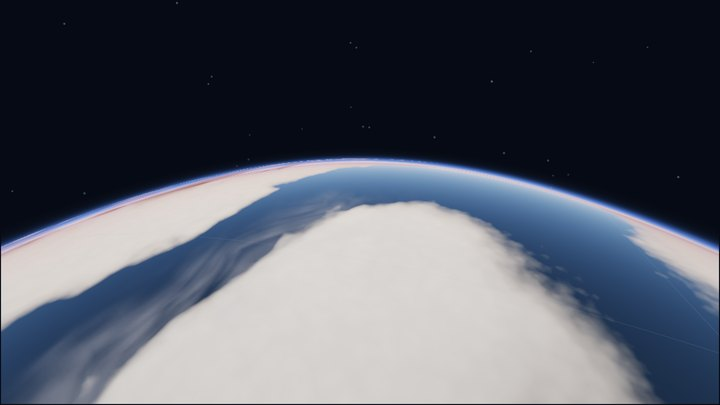
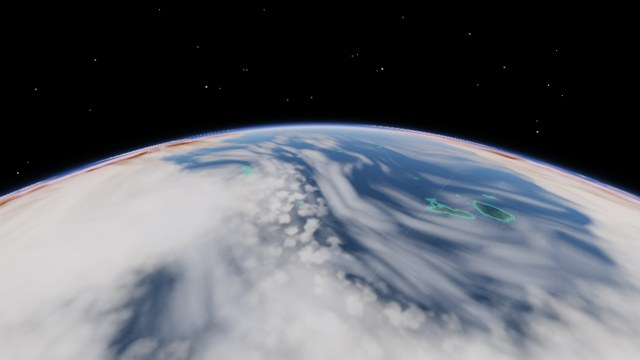
README: runnable snippets with what they draw; lean into the physics
- The two code snippets are complete scenes and identical to the new
  examples/earth.py and examples/astronaut.py; each is shown with a render
  of exactly that code.
- New sections explain why the sunset is red (Rayleigh 1/lambda^4,
  Beer-Lambert along the long low path, refraction, clouds lit after
  sunset, GGX glint) and how a pixel is made (ray casting, ray marching the
  air and the clouds, the surface, eclipse light from orbit), with numbers
  from the shaders.
- Dropped the verification section; images in docs/images.

Claude-Session: https://claude.ai/code/session_018JwqgkYaymFMMs9yP5ZLFK

diff --git a/orbitgfx/examples/astronaut.py b/orbitgfx/examples/astronaut.py
@@ -1,0 +1,38 @@
+import math
+import numpy as np
+import scene
+from orbitgfx import GlobeView, Camera, cached_earth_image, pil_texture
+from orbitgfx.astro import gmst, julian_date, sun_dir
+from orbitgfx.coastlines import coastlines_xyz
+
+R = 6378.137 + 420.0                                  # km: an ISS-like orbit
+N = math.sqrt(398600.4418 / R ** 3)                   # mean motion, rad/s
+INC = math.radians(51.6)
+
+
+def orbit(t):
+    """Position (km) and velocity (km/s) on a circular orbit, ECI."""
+    u = N * t
+    p = R * np.array((math.cos(u), math.sin(u) * math.cos(INC), math.sin(u) * math.sin(INC)))
+    v = N * R * np.array((-math.sin(u), math.cos(u) * math.cos(INC), math.cos(u) * math.sin(INC)))
+    return p, v
+
+
+class Astronaut(scene.Scene):
+    def setup(self):
+        texture = pil_texture(cached_earth_image(coastlines_xyz(6378.137)))
+        self.globe = GlobeView(self, texture, quality='HIGH', inset=0.0)
+        self.globe.layout((0, 0, self.size.w, self.size.h))
+        self.camera = Camera()
+        self.jd0 = julian_date()
+
+    def update(self):
+        t = self.t * 10                               # 10x real time
+        p, v = orbit(t)
+        jd = self.jd0 + t / 86400
+        self.camera.set_astronaut(p, v, down=0.3)     # ride behind it, looking down
+        self.globe.update(self.camera, sun_dir(jd), gmst(jd), sat=p, vel=v,
+                          cloud_hours=t / 3600)
+
+
+scene.run(Astronaut())

diff --git a/orbitgfx/examples/earth.py b/orbitgfx/examples/earth.py
@@ -1,0 +1,21 @@
+import scene
+from orbitgfx import GlobeView, Camera, cached_earth_image, pil_texture
+from orbitgfx.astro import gmst, julian_date, sun_dir
+from orbitgfx.coastlines import coastlines_xyz
+
+
+class Earth(scene.Scene):
+    def setup(self):
+        texture = pil_texture(cached_earth_image(coastlines_xyz(6378.137)))
+        self.globe = GlobeView(self, texture, quality='HIGH')
+        self.globe.layout((0, 0, self.size.w, self.size.h))
+        self.camera = Camera(az=-2.0, el=0.45)
+        self.jd0 = julian_date()                      # now
+
+    def update(self):
+        hours = self.t * 600 / 3600                   # 600x time lapse
+        jd = self.jd0 + hours / 24
+        self.globe.update(self.camera, sun_dir(jd), gmst(jd), cloud_hours=hours)
+
+
+scene.run(Earth())

diff --git a/README.md b/README.md
@@ -1,115 +1,202 @@
 # orbitgfx
 
-**A ray-traced Earth for your iPhone.** orbitgfx renders a physically based planet
-— atmosphere, volumetric clouds from a simulated weather film, NASA imagery, city
-lights, aurora, eclipses and refraction — in GLSL shaders on Pythonista's `scene`
-module, plus a full mission-control demo that flies a spacecraft over it.
+**A ray-traced Earth for Pythonista.** Nothing here is painted on. Every pixel casts a
+ray into a physical model of the planet: it is intersected with the Earth, the air,
+the clouds and the orbit, then marched through the atmosphere and the cloud layer,
+adding up the sunlight that air molecules, aerosols and water droplets scatter toward
+the camera. Sunsets are red because the light really did cross more air.
 
 <p align="center">
   <img src="docs/images/mission_control.jpg" width="300" alt="Mission control on an iPhone: ray-traced Earth with clouds, city lights and aurora, orbit ring, telemetry and ground track">
   &nbsp;
   <img src="docs/images/aurora.jpg" width="300" alt="Night side from a perspective camera: aurora oval over the pole, city lights, the terminator lit on the right">
 </p>
-<p align="center"><sub>On an iPhone 16 Pro Max in Pythonista: <code>examples/mission_control.py</code> and the aurora over the night side.</sub></p>
+<p align="center"><sub>On an iPhone 16 Pro Max: <code>examples/mission_control.py</code>, and the aurora over the night side.</sub></p>
 
-## From orbit
+## A planet in 20 lines
 
-The astronaut camera rides just behind the spacecraft and looks ahead at the horizon.
+```python
+import scene
+from orbitgfx import GlobeView, Camera, cached_earth_image, pil_texture
+from orbitgfx.astro import gmst, julian_date, sun_dir
+from orbitgfx.coastlines import coastlines_xyz
 
+
+class Earth(scene.Scene):
+    def setup(self):
+        texture = pil_texture(cached_earth_image(coastlines_xyz(6378.137)))
+        self.globe = GlobeView(self, texture, quality='HIGH')
+        self.globe.layout((0, 0, self.size.w, self.size.h))
+        self.camera = Camera(az=-2.0, el=0.45)
+        self.jd0 = julian_date()                      # now
+
+    def update(self):
+        hours = self.t * 600 / 3600                   # 600x time lapse
+        jd = self.jd0 + hours / 24
+        self.globe.update(self.camera, sun_dir(jd), gmst(jd), cloud_hours=hours)
+
+
+scene.run(Earth())
+```
+
+<p align="center">
+  <img src="docs/images/earth.jpg" width="420" alt="The Earth from the snippet: Africa, Europe and Asia, real clouds, snow on the Himalaya, city lights on the night side and the aurora at the pole">
+</p>
+<p align="center"><sub>What it draws, here for 17 Oct 2026 10:00 UTC: the Sun where it really is
+(<code>sun_dir</code>), the Earth turned by sidereal time (<code>gmst</code>), and clouds from
+the weather film for that hour. <code>examples/earth.py</code>.</sub></p>
+
+## Riding along
+
+```python
+import math
+import numpy as np
+import scene
+from orbitgfx import GlobeView, Camera, cached_earth_image, pil_texture
+from orbitgfx.astro import gmst, julian_date, sun_dir
+from orbitgfx.coastlines import coastlines_xyz
+
+R = 6378.137 + 420.0                                  # km: an ISS-like orbit
+N = math.sqrt(398600.4418 / R ** 3)                   # mean motion, rad/s
+INC = math.radians(51.6)
+
+
+def orbit(t):
+    """Position (km) and velocity (km/s) on a circular orbit, ECI."""
+    u = N * t
+    p = R * np.array((math.cos(u), math.sin(u) * math.cos(INC), math.sin(u) * math.sin(INC)))
+    v = N * R * np.array((-math.sin(u), math.cos(u) * math.cos(INC), math.cos(u) * math.sin(INC)))
+    return p, v
+
+
+class Astronaut(scene.Scene):
+    def setup(self):
+        texture = pil_texture(cached_earth_image(coastlines_xyz(6378.137)))
+        self.globe = GlobeView(self, texture, quality='HIGH', inset=0.0)
+        self.globe.layout((0, 0, self.size.w, self.size.h))
+        self.camera = Camera()
+        self.jd0 = julian_date()
+
+    def update(self):
+        t = self.t * 10                               # 10x real time
+        p, v = orbit(t)
+        jd = self.jd0 + t / 86400
+        self.camera.set_astronaut(p, v, down=0.3)     # ride behind it, looking down
+        self.globe.update(self.camera, sun_dir(jd), gmst(jd), sat=p, vel=v,
+                          cloud_hours=t / 3600)
+
+
+scene.run(Astronaut())
+```
+
+<p align="center">
+  <img src="docs/images/astronaut.jpg" width="820" alt="Night pass from 420 km: city lights along a coast, the red airglow layer and a thin green airglow line on the limb">
+</p>
 <table>
   <tr>
-    <td><img src="docs/images/astro_night.jpg" alt="Night pass: city lights under a red airglow band on the limb"></td>
-    <td><img src="docs/images/astro_glint.jpg" alt="Sun glint on the sea near the terminator"></td>
-  </tr>
-  <tr>
-    <td><img src="docs/images/astro_desert.jpg" alt="Desert and snow-capped ranges under a blue limb"></td>
-    <td><img src="docs/images/astro_clouds.jpg" alt="A cloud band curling over the ocean, backlit"></td>
+    <td><img src="docs/images/astro_dawn.jpg" alt="Dawn: the sunrise glow along the limb, land still in twilight"></td>
+    <td><img src="docs/images/astro_glint.jpg" alt="A cloud field and the sun's reflection on the sea"></td>
+    <td><img src="docs/images/astro_clouds.jpg" alt="Cumulus and banded cloud over the ocean"></td>
   </tr>
 </table>
-<p align="center"><sub>Night pass with airglow · sun glint at the terminator · desert under the limb · a cloud band, backlit. Desktop sandbox renders of the same shaders (HIGH preset, camera tilted further down than the default).</sub></p>
+<p align="center"><sub>Frames from <code>examples/astronaut.py</code> along one orbit. At night the
+limb glows with airglow: oxygen emitting at 557.7 nm (the thin green line, ~95 km up)
+and at 630 nm (the broad red band above it). At dawn the first light reaches you through
+the limb, reddened. Desktop renders of the same shaders.</sub></p>
 
-## From the ground
+## Why the sunset is red
 
-`examples/sunset.py` stands on a hill and watches the sun set under whatever the weather
-film has overhead. Each site shows a different kind of sky.
+<p align="center">
+  <img src="docs/images/sunset_sequence.jpg" width="820" alt="A sunset in nine frames over the sea: the sun reddens, flattens and sets, its glint following it down, the clouds staying lit">
+</p>
+
+Nobody chose these colours. `examples/sunset.py` stands 400 m above the sea and the
+shader works out, for every pixel, how much sunlight reaches each point of air along
+the view ray and how much of it is scattered toward you:
+
+- **Rayleigh scattering** by air molecules goes as 1/λ⁴, so the shader's blue
+  coefficient is 5.7 times its red one. Looking straight up you see the blue that was
+  scattered out of the beam.
+- **The low sun's light crosses far more air.** Integrating Beer–Lambert extinction
+  along a horizontal ray from the ground through the model atmosphere keeps 11% of the
+  red, 1% of the green and 0.005% of the blue. What reaches you is red, and the sun's
+  own disc turns orange, then red.
+- **Refraction** bends that light around the curve of the Earth: the sun is seen about
+  half a degree above where it really is (Saemundsson's formula), and squashed, because
+  its lower edge is lifted more than its top.
+- **The clouds keep their light after the ground loses it.** A cloud top 10 km up still
+  sees the sun after it has set for you; its light has grazed the dense lower air, so it
+  turns orange, then pink, then grey.
+- **The glint** on the sea is microfacet reflection (GGX) of that same reddened sun.
 
 <p align="center">
   <img src="docs/images/sunset_sites.jpg" width="820" alt="Four sunsets: open-cell stratocumulus off Chile, thunderstorms over the Bismarck Sea, frontal overcast over the North Pacific, high cirrus over the Amazon">
 </p>
-<p align="center">
-  <img src="docs/images/sunset_sequence.jpg" width="820" alt="A sunset in nine frames: the sun reddens and sets, its reflection on the sea following it down">
-</p>
-<p align="center"><sub>Four sites, then one sunset in nine frames: the disc reddens and sinks, its glint on the sea goes with it, and the clouds keep their light after the sun is gone.</sub></p>
+<p align="center"><sub>Four places, four skies, on an iPhone. The clouds are not drawn for the
+scene: they are whatever the weather film has over that spot at that hour.</sub></p>
 
-## What's in it
+## How a pixel is made
 
-- **Ray-traced globe:** one primary ray per pixel against the planet, atmosphere,
-  cloud shell and orbit, in orthographic or perspective views.
-- **Physical atmosphere:** Rayleigh, Mie and ozone single scattering with a baked
-  transmittance table, real scale heights.
-- **Weather you can watch:** a 4-day global weather film made offline by a two-layer
-  quasi-geostrophic model, drawn as volumetric clouds that move, light and shadow.
-- **Real imagery:** NASA Blue Marble land and Black Marble city lights, relief and
-  mountain shadows, sea ice, GGX sun glint and sky reflection on water.
-- **Lighting from orbit:** eclipse penumbra with the limb's red light, refraction (a
-  setting sun lifted and squashed, light lingering after geometric sunset), airglow and aurora.
-- **Mission control:** RK45 orbit with J2, WGS84 ground stations, AOS/LOS, Doppler,
-  eclipse timeline, ground track and coverage footprint.
-- **Five quality presets,** from the original 1.x look (`LEGACY`) to `ULTRA`:
+1. **Ray casting.** Each pixel's ray is intersected analytically with spheres for the
+   Earth, the top of the atmosphere and the cloud shell, and with the orbit circle (the
+   ring is solved exactly, so it stays a crisp line at any angle).
+2. **Ray marching the air.** 6 to 16 samples along the ray through the atmosphere. At
+   each one: the density of air (8 km scale height), of aerosols (1.2 km) and of the
+   ozone layer (around 25 km); the sunlight still reaching that point (a precomputed
+   transmittance table); and how much of it scatters toward the camera (the Rayleigh
+   phase function, and the forward-peaked Cornette–Shanks phase function for aerosols).
+3. **Ray marching the clouds.** Up to 56 steps through the cloud layer. From every step
+   a second, shorter march toward the sun measures how much cloud is in the way, so
+   clouds shade themselves and cast shadows on the ground. A two-lobe Henyey–Greenstein
+   phase function gives the silver lining when you look toward the sun, and
+   multiple-scattering octaves keep thick cloud bright.
+4. **The surface.** NASA Blue Marble colour, Black Marble city lights that come on as
+   the sun goes down, relief and mountain shadows, sea ice, GGX glint and the sky
+   reflected in the water.
+5. **From orbit.** The spacecraft's sunlight is traced past the Earth's limb: at eclipse
+   entry the sun's disc sinks behind the Earth and its last light crosses the
+   atmosphere edge-on, so the marker fades through orange and red over about 14 seconds.
 
-<p align="center">
-  <img src="docs/images/mission_control_legacy.jpg" width="260" alt="The LEGACY preset: the original flat-shaded 1.x globe with orbit and ground track">
-</p>
-<p align="center"><sub><code>LEGACY</code>, the original look, is kept pixel for pixel.</sub></p>
+The weather itself comes from a simulation run offline: a two-layer quasi-geostrophic
+model of the global atmosphere, whose jet streams, fronts and midlatitude storms grow out
+of the equations. Its clouds are baked into a 4-day film of 96 hourly frames.
 
-| Preset | What you get | iPhone 16 Pro Max, overview |
+## Quality presets
+
+| Preset | What you get | iPhone 16 Pro Max |
 | --- | --- | --- |
-| `LEGACY` | the original 1.x look | 60 fps |
-| `LOW` | physical atmosphere, 2D lit clouds, imagery, eclipse lighting, refraction | 60 fps, 4 globes per frame |
+| `LEGACY` | the original 1.x look, kept pixel for pixel | 60 fps |
+| `LOW` | physical atmosphere, lit clouds, imagery, eclipse light, refraction | 60 fps, 4 globes per frame |
 | `MED` | + volumetric clouds, sky reflection on water | 60 fps, 3 globes |
 | `HIGH` | + more samples, mountain shadows | 60 fps, 3 globes |
-| `ULTRA` | + the most cloud steps (experimental) | 60 fps, 1 globe |
+| `ULTRA` | + the most cloud steps | 60 fps from orbit; 23-27 fps on the ground |
 
-Details, every knob and the full timing table: [TUNING.md](orbitgfx/TUNING.md).
+<p align="center">
+  <img src="docs/images/mission_control_legacy.jpg" width="240" alt="The LEGACY preset: the original flat-shaded globe with orbit and ground track">
+</p>
+<p align="center"><sub><code>LEGACY</code>, the look orbitgfx started with.</sub></p>
 
-## Quick start
+## Getting started
 
-1. Copy the [`orbitgfx/`](orbitgfx) folder into Pythonista's `site-packages`.
-   It needs only Pythonista's built-ins (`scene`, `ui`, NumPy, PIL); the solver,
+1. Copy the [`orbitgfx/`](orbitgfx) folder into Pythonista's `site-packages`. It needs
+   only Pythonista's built-ins (`scene`, `ui`, NumPy, PIL); the orbit solver,
    coastlines, imagery and weather film are bundled.
-2. Run `orbitgfx/examples/mission_control.py`. Tap to change speed, drag to orbit,
-   pinch to zoom, double-tap to track the spacecraft or ride along.
-3. Try `examples/sunset.py` (tap the top for the next site) and `examples/globe_demo.py`
-   (a 40-line starting point).
+2. Run `orbitgfx/examples/earth.py` or `astronaut.py` (the snippets above), then
+   `mission_control.py`: tap for speed, drag to orbit, pinch to zoom, double-tap to track
+   the spacecraft or ride along. `sunset.py`: tap the top for the next place.
+3. Everything you can tune, from the atmosphere to the cloud steps:
+   [TUNING.md](orbitgfx/TUNING.md). The API: the [package README](orbitgfx/README.md).
 
-```python
-from orbitgfx import GlobeView, Camera
-globe = GlobeView(self, texture, quality='HIGH')     # in your Scene's setup()
-globe.layout((10, 10, self.size.w - 20, self.size.h - 20))
-globe.update(Camera(el=0.4), sun_direction, earth_rotation)   # every frame
-```
+The same code runs on a desktop in a bundled sandbox that emulates Pythonista's `scene`
+with real GLSL, which is how the desktop screenshots here were made.
 
-The API, layering rules and the sandbox are in the [package README](orbitgfx/README.md).
+## How true is it?
 
-## Runs on the desktop too
-
-A sandbox emulates Pythonista's `scene` and `ui` on a desktop with real GLSL (headless
-EGL, no GPU needed) and Skia for the classic layer, so the same code renders screenshots
-and runs the test suite: `pytest --pyargs orbitgfx.tests`.
-
-## Verified on a phone
-
-`examples/device_check.py` runs in Pythonista and checks what a desktop can't: every
-preset through Apple's shader compiler, a NaN scan, the GPU's float maths against the
-CPU, frame times and headroom, heat and memory, and screenshots to diff against the
-desktop. `examples/device_smoke.py` runs every code path in about a minute first.
-
-## How accurate is it?
-
-It is a visualisation built on real physics, not an operational tool: a J2-only orbit,
-mean sidereal time, a low-precision Sun, a stylised atmosphere drawn 1.5x thick by default,
-and clouds from an idealised weather model. [VALIDATION.md](orbitgfx/VALIDATION.md) says
-what is verified, what is approximate and what is art.
+The physics is real, the planet is idealised: the orbit is two-body plus J2, the
+atmosphere is single scattering with a multiple-scattering estimate and is drawn 1.5 times
+thicker than real by default so it shows at phone size, and the weather is a simple
+model's, not a forecast. [VALIDATION.md](orbitgfx/VALIDATION.md) lists what is
+physics, what is approximation and what is a creative choice.
 
 ## License
 
